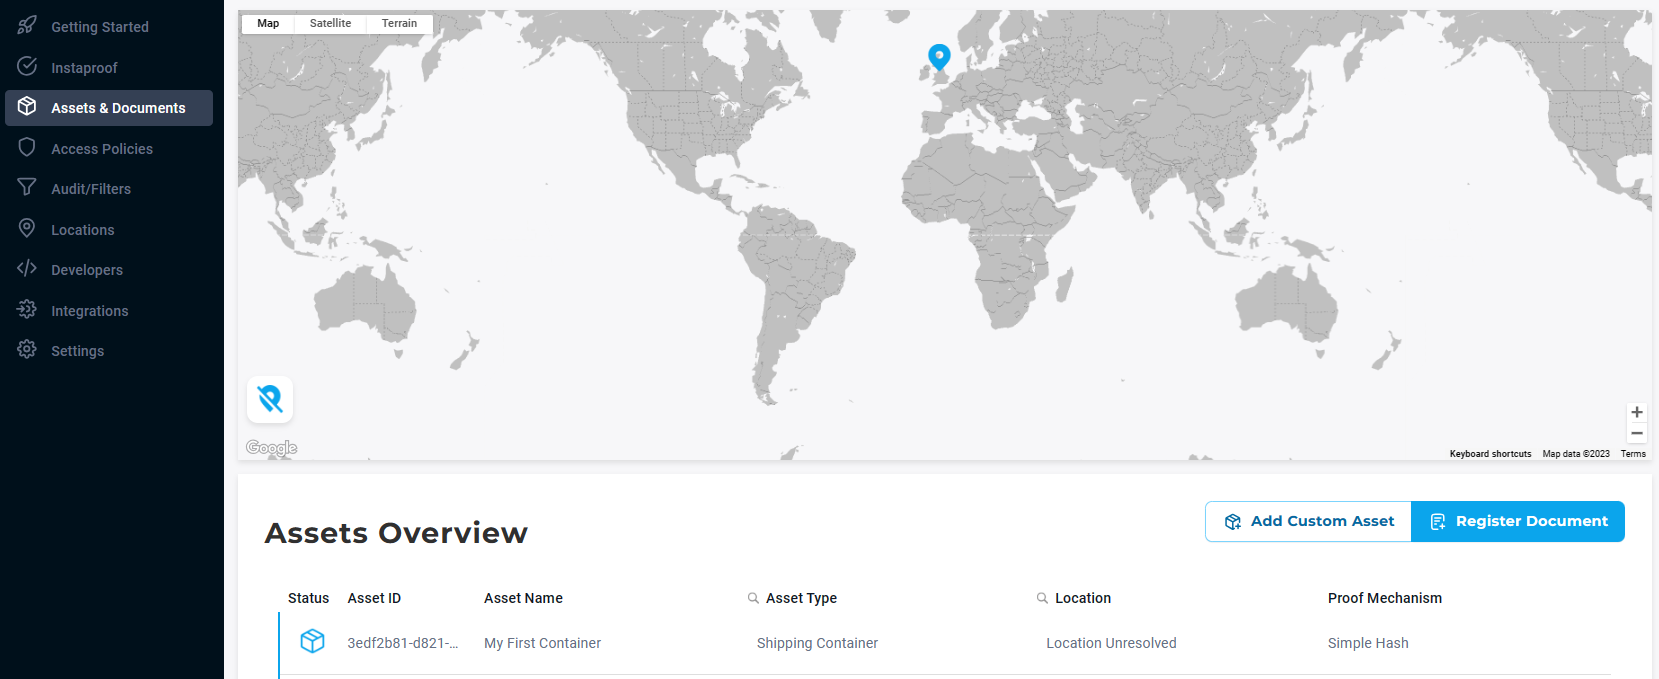
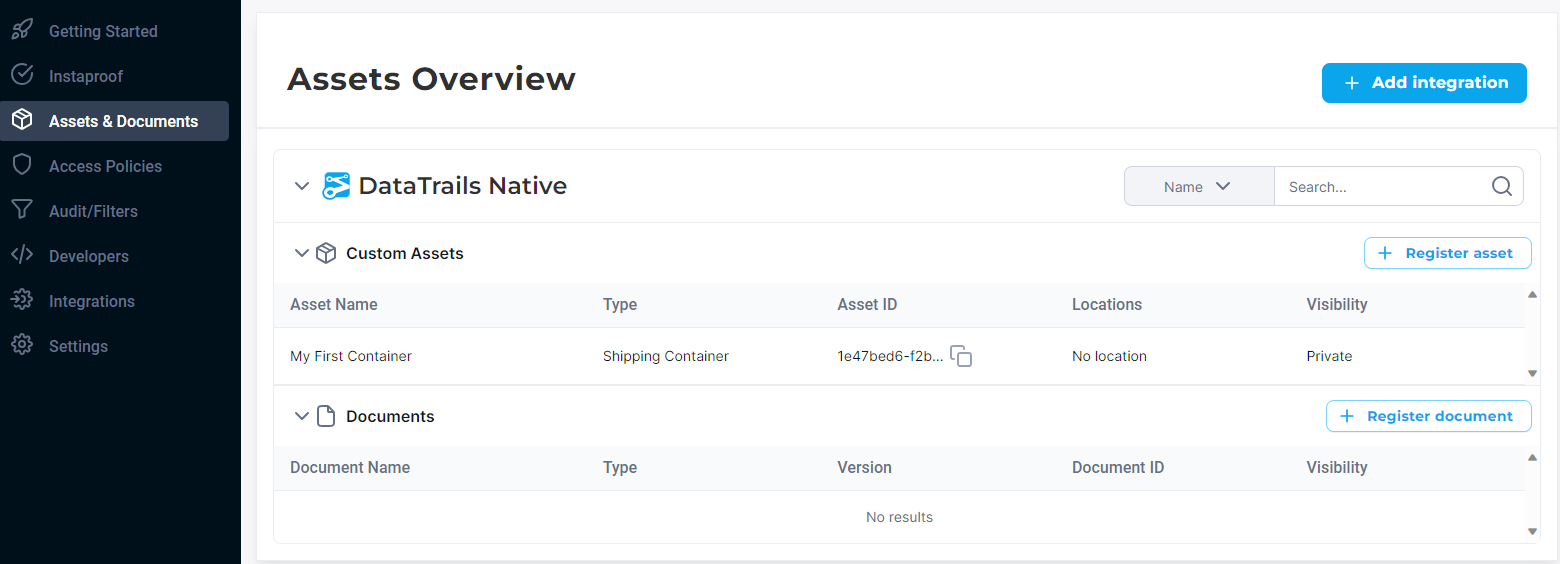
Screenshot updates to Asset and Document articles

diff --git a/content/platform/overview/creating-an-asset/index.md b/content/platform/overview/creating-an-asset/index.md
@@ -32,7 +32,7 @@ The creation of an Asset is the first Event in its lifecycle. The following step
 1. Create your Asset
 {{< tabs name="add_asset" >}}
 {{< tab name="UI" >}}
-Using the sidebar, select `Assets & Documents` and then `Add Custom Asset`
+Using the sidebar, select `Assets & Documents` and then `Register Asset`
 {{< img src="AssetRegister.png" alt="Rectangle" caption="<em>Adding an Asset</em>" class="border-0" >}}
 {{< /tab >}}
 {{< tab name="YAML" >}}
